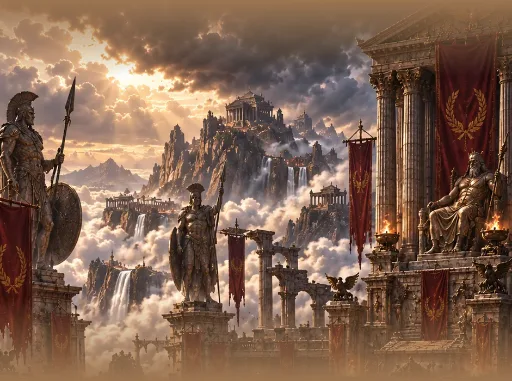
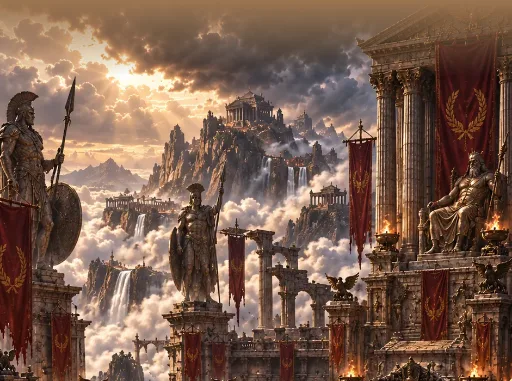
arena 1: blood-stained sand, no pale strip between the stands and the painted world
Arena 1 floor takes the blood patch (Dom liked Blood Sand's floor). Open stands: the top tread is trodden sand
(narrow, no walkway out to a parapet that is gone), the far ground is an unfogged dark shadow, and the painting's
foot is no longer faded, so its masonry meets the stands. Support raycast test includes the sand tread.

Changed region(s): [[0.0, 0.8084, 1.0, 1.0]]

diff --git a/src/arena.ts b/src/arena.ts
@@ -227,10 +227,12 @@ export function buildArena(scene: THREE.Scene, theme: ArenaTheme = ARENA_THEMES[
   const wallRows = [0, 0.25, 0.7, 1.5, wall.top];   // enough vertical samples to keep foot stains localized
   for (let i = 1; i < wallRows.length; i++) stones.push(band(wall.inner, flat(wallRows[i - 1]), wall.inner, flat(wallRows[i]), 2, wallTint, gateSkip));
   stones.push(band(wall.inner, flat(wall.top), wall.outer, flat(wall.top), 2, wallTint, gateSkip));           // its walkway
+  // Open stands (no parapet): the top walkway and the ground past it are the pit's own sand, not dressed stone (Dom 2026-10-03: too clean).
+  const grit: THREE.BufferGeometry[] = [], open = theme.parapet === false, dirt: Tint = (x, _y, z) => { const k = 0.5 * (0.8 + 0.6 * (mottle(x / 7 + 0.5, z / 7 + 0.5) - 0.5)); return [k, k * 0.95, k * 0.9]; };   // trodden, patchy, darker than the pit
   let inner = wall.outer;
   tiers.forEach((_h, i) => {
-    const top = (a: number, s: number) => tierTop(i, a, s), under = i === 0 ? flat(wall.top) : (a: number, s: number) => tierTop(i - 1, a, s), outer = i === tiers.length - 1 ? parapet.inner : inner + tierDepth;   // the top tier runs on as the walkway to the parapet (+1.9 m with all five)
-    stones.push(band(inner, under, inner, top, 2, tierTint), band(inner, top, outer, top, 2, tierTint));
+    const top = (a: number, s: number) => tierTop(i, a, s), under = i === 0 ? flat(wall.top) : (a: number, s: number) => tierTop(i - 1, a, s), outer = i === tiers.length - 1 && theme.parapet !== false ? parapet.inner : inner + tierDepth;   // the top tier runs on as the walkway to the parapet (+1.9 m with all five)
+    stones.push(band(inner, under, inner, top, 2, tierTint)); (open && i === tiers.length - 1 ? grit : stones).push(band(inner, top, outer, top, open && i === tiers.length - 1 ? SAND_TILE : 2, open && i === tiers.length - 1 ? dirt : tierTint));
     inner = outer;
   });
   const topTier = (a: number, s: number) => tierTop(tiers.length - 1, a, s), parapetTop = (a: number, s: number) => topTier(a, s) + (parapet.top - LAYOUT.tiers[LAYOUT.tiers.length - 1]) * (1 - 0.85 * smooth(0.45, 0.75, ruinNoise(a / TAU + 0.31, 0.8))) + (hash(s, 9, 7) - 0.5) * 0.5;
@@ -464,7 +466,12 @@ export function buildArena(scene: THREE.Scene, theme: ArenaTheme = ARENA_THEMES[
     const far = i >= 22, a = (far ? (i - 22) / 18 : i / 22) * TAU + (far ? 0.2 : 0), h = (far ? 14 : 7) + hash(i, 0, 43) * (far ? 16 : 9), r = far ? 110 : 62, [x, z] = polar(r, a);
     ridges.push(prop(cylinder((2 + hash(i, 4, 43) * 5), 14 + hash(i, 1, 43) * 16, h, 7), x, h / 2 - 3, z, new THREE.Euler(0, hash(i, 2, 43) * 3, 0), new THREE.Vector3(1.7 + hash(i, 3, 43), 1, 1), 1, [1, 1, 1], -5));
   }
-  mesh(mergeGeometries(ridges), plain, 'plain', false);
+  // Open stands: the ground past the walkway is never seen except as a sliver under the painted world; unfogged and dark like the
+  // painting's foot, so it reads as the far side's shadow, not a pale strip of haze.
+  const plainMaterial = open ? new THREE.MeshBasicMaterial({ name: 'far ground', color: '#2e2219', fog: false }) : plain;
+  if (open) materials.push(plainMaterial);
+  mesh(mergeGeometries(ridges), plainMaterial, 'plain', false);
+  if (grit.length) mesh(mergeGeometries(grit.map(g => g.index ? g.toNonIndexed() : g)), sand, 'walkway sand', false);
 
   // Motion. Only dt-driven: a hit-stop passes dt 0 and everything holds its pose with the fighters.
   let time = 0, flare = 0, mood: 'idle' | 'cheer' | 'lean' | 'recoil' = 'idle', since = 0;

diff --git a/src/arena-themes.ts b/src/arena-themes.ts
@@ -42,7 +42,7 @@ const ONE: RGB = [1, 1, 1];
 const ARENA_1: ArenaTheme = {
   // Golden hour (Dom 2026-10-03, arena-wow brief step 1): a low warm sun from one side for long hard shadows, a cool sky fill so the
   // shade goes blue against the warm key, a honey haze at the rim and gold dust in the air. Settings only; the maps are unchanged.
-  id: '1', name: 'The Ash Pit', textures: { floor: 'sand', sand: ONE, sandSeed: 7, stone: ONE, stoneSeed: 11, sky: { base: [138, 122, 112], sun: [110, 70, 26], ground: [120, 92, 66], sunV: 0.62 } },
+  id: '1', name: 'The Ash Pit', textures: { floor: 'sand', patch: 'blood', sand: ONE, sandSeed: 7, stone: ONE, stoneSeed: 11, sky: { base: [138, 122, 112], sun: [110, 70, 26], ground: [120, 92, 66], sunV: 0.62 } },
   fog: '#c9a47a', fogDensity: 0.02, hemisphere: ['#9fb2d4', '#4a3426', 1.25], sun: ['#ffb46a', 5.2], exposure: 1.3,
   light: { sun: [-24, 12, -15] },
   weather: { kind: 'dust', color: '#f2c58a', count: 320, size: 0.06, opacity: 0.6 }, flame: 1.5, tiers: 3, parapet: false, colonnade: false, backdrop: '/arena/backdrop-1.webp',

diff --git a/tests/arena.test.ts b/tests/arena.test.ts
@@ -65,7 +65,7 @@ test('the crowd stands on the tiers, outside the clamp, and never moves past the
     rest.get(m.name)![i].decompose(pos, q, s); const radius = Math.hypot(pos.x, pos.z);
     assert.ok(radius > LAYOUT.wall.outer, 'a spectator off the tiers');
     ray.set(new THREE.Vector3(pos.x, 12, pos.z), new THREE.Vector3(0, -1, 0));
-    const support = ray.intersectObject(stone)[0];
+    const support = ray.intersectObjects([stone, ...arena.group.children.filter(o => o.name === 'walkway sand')])[0];   // open stands: the top tread is sand
     assert.ok(support && Math.abs(pos.y - support.point.y) < 0.035, 'spectator floating above a tread or intersecting rubble');
     const c = sectors[Math.floor(((Math.atan2(pos.x, pos.z) + Math.PI * 2) % (Math.PI * 2)) / (Math.PI * 2) * 12)];
     c[0]++; if (radius < LAYOUT.wall.outer + 2 * LAYOUT.tierDepth) c[1]++;

diff --git a/tests/arena-themes.test.ts b/tests/arena-themes.test.ts
@@ -68,7 +68,7 @@ test('no theme moves the geometry: every arena builds the same meshes, vertex fo
   };
   // Arena 1's stands are the exception (Dom 2026-10-03, arena-wow): three tiers instead of five and a painted far world instead of
   // the ash ridges, all outside the wall. Everything the fight touches (sand, wall, gate, braziers, clamp) stays vertex for vertex.
-  const stands = (shape: string[]) => shape.filter(s => !/^(stone|plain|backdrop|crowd|rubble)/.test(s));
+  const stands = (shape: string[]) => shape.filter(s => !/^(stone|plain|backdrop|crowd|rubble|walkway)/.test(s));
   const ref = shape('a');
   for (const key of Object.keys(ARENA_THEMES) as (keyof typeof ARENA_THEMES)[]) {
     const theme = ARENA_THEMES[key], got = shape(key);
